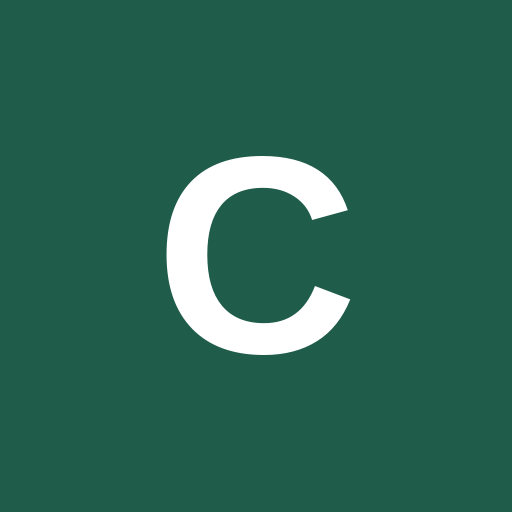
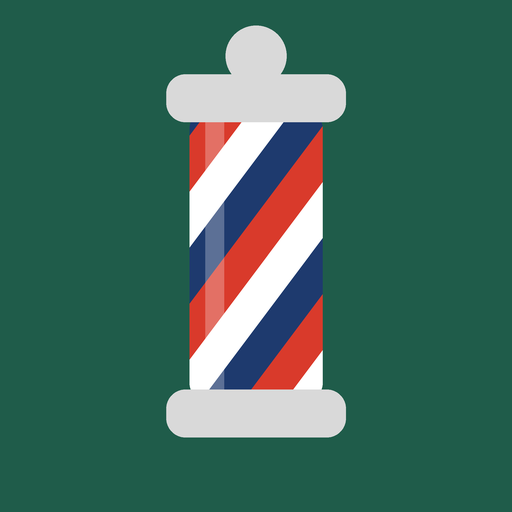
Add files via upload

Changed region(s): [[0.3125, 0.0312, 0.6875, 0.875]]

diff --git a/index.html b/index.html
@@ -21,7 +21,7 @@ html,body{margin:0;background:var(--bg);color:var(--ink);font-family:-apple-syst
 body{padding-bottom:calc(96px + env(safe-area-inset-bottom))}
 button,input,select{font:inherit;color:inherit}
 header{position:sticky;top:0;z-index:5;background:var(--bg);padding:calc(12px + env(safe-area-inset-top)) 16px 10px;display:flex;align-items:center;gap:12px;max-width:640px;margin:0 auto}
-.logo{width:40px;height:40px;border-radius:12px;background:var(--accent);color:var(--accent-ink);display:grid;place-items:center;font-weight:800;font-size:18px;flex:none}
+.logo{width:40px;height:40px;border-radius:12px;background:var(--accent);color:var(--accent-ink);display:grid;place-items:center;font-weight:800;font-size:18px;flex:none;object-fit:cover}
 h1{font-size:20px;margin:0;letter-spacing:-.01em;line-height:1.2}
 h2{font-size:18px;margin:0}
 h3{font-size:22px;margin:4px 0 16px}
@@ -130,7 +130,7 @@ nav .mic svg{width:28px;height:28px}
 </head>
 <body>
 <header>
-  <div class="logo" id="logo">C</div>
+  <img class="logo" id="logo" src="icon-192.png" alt="">
   <div><h1 id="shopName">Chairside</h1><div class="sub" id="todayLabel"></div></div>
 </header>
 <main id="view"></main>
@@ -235,7 +235,6 @@ const UI={tab:'today',date:today(),tillMode:'day',tillDate:today(),staffWeek:wee
 
 function render(){
   $('#shopName').textContent=S.shop;
-  $('#logo').textContent=(S.shop.trim()[0]||'C').toUpperCase();
   $('#todayLabel').textContent=new Date().toLocaleDateString('en-IE',{weekday:'long',day:'numeric',month:'long'})+(hasSync()?Sync.badge():'');
   const lock=hasSync()&&Sync.gate();
   document.body.classList.toggle('locked',!!lock);
@@ -416,7 +415,7 @@ function viewSettings(){
   ${hasSync()?Sync.card():''}${hasSync()?'':`<div class="card"><h2 style="margin-bottom:6px">Backup</h2><p class="sub" style="margin-top:0">${hasSync()&&Sync.signedIn()?'Your data is also backed up in the cloud. A backup file is an extra copy you keep yourself.':'Everything is stored on this phone only. Save a backup file now and then, and before switching phones.'}</p><div class="grid2" style="margin:0"><button class="btn ghost" data-act="export">Save backup</button><button class="btn ghost" data-act="import">Restore</button></div></div>`}
   <div class="card"><h2 style="margin-bottom:12px">Data</h2><button class="btn ghost danger full" data-act="wipe" style="margin:0">Erase everything</button></div><input type="file" id="importFile" accept="application/json,.json" hidden>
   <div class="card"><h2 style="margin-bottom:6px">Add to home screen</h2><p class="sub" style="margin:0">iPhone: open in Safari → Share → <b>Add to Home Screen</b>. Android: Chrome menu → <b>Add to Home screen</b>.</p></div>
-  <p class="foot">Chairside v1.7 · <a href="privacy.html" style="color:inherit">Privacy</a></p>`;}
+  <p class="foot">Chairside v1.8 · <a href="privacy.html" style="color:inherit">Privacy</a></p>`;}
 function doExport(){const blob=new Blob([JSON.stringify(S)],{type:'application/json'});const a=document.createElement('a');a.href=URL.createObjectURL(blob);a.download=`chairside-backup-${today()}.json`;document.body.appendChild(a);a.click();setTimeout(()=>{URL.revokeObjectURL(a.href);a.remove();},800);toast('Backup saved');}
 function doImport(input){const f=input.files[0];if(!f)return;const r=new FileReader();
   r.onload=()=>{try{const o=JSON.parse(r.result);if(!o||!Array.isArray(o.services)||!Array.isArray(o.bookings)||!Array.isArray(o.tx))throw 0;
@@ -635,7 +634,17 @@ const ACT={
   delStaff:(el,id)=>{if(!confirm('Remove this barber? Past records stay.'))return;S.staff=S.staff.filter(s=>s.id!==id);save();render();},
   export:doExport,import:()=>$('#importFile').click(),
   sample:()=>{if(hasSync()&&Sync.signedIn())return toast('Sign out first — sample data would mix with your real data');if(!confirm('Replace everything with sample data?'))return;S=sampleData();save();UI.date=today();render();},
-  wipe:()=>{if(!confirm(hasSync()&&Sync.signedIn()?'Erase all bookings, money and settings on EVERY phone signed in to this shop?':'Erase all bookings, money and settings on this phone?'))return;S=baseData();save();UI.date=today();render();toast('Fresh start');},
+  wipe:()=>{const all=hasSync()&&Sync.signedIn();
+    openSheet(`<h3 class="red">Erase everything?</h3>
+    <p>This deletes <b>all bookings, walk-ins, money in and out, staff and settings</b>${all?' on <b>every phone</b> signed in to this shop and in the cloud':' on this phone'}.</p>
+    <p class="red" style="font-weight:700">It can't be undone.</p>
+    <p class="sub">Want a copy first? <button class="linkbtn" data-act="export" style="padding:0">Download a copy</button></p>
+    <label>Type <b>ERASE</b> to confirm<input id="eraseWord" autocomplete="off" autocapitalize="characters" spellcheck="false"></label>
+    <button class="btn red full" id="eraseGo" data-act="wipeGo" disabled>Erase everything</button>
+    <button class="btn ghost full" data-act="closeSheet" style="margin-top:8px">Cancel</button>`);
+    $('#eraseWord').addEventListener('input',e=>{$('#eraseGo').disabled=e.target.value.trim().toUpperCase()!=='ERASE';});},
+  wipeGo:()=>{if($('#eraseWord').value.trim().toUpperCase()!=='ERASE')return;
+    const acct=S.acct;S=baseData();if(acct)S.acct=acct;save();closeSheet();UI.date=today();UI.tab='today';render();toast('Everything erased');},
   startOwn:()=>{if(!confirm('Clear the sample data and start with your own?'))return;S=baseData();save();UI.date=today();UI.tab='settings';render();toast('Set your shop name, prices and team');},
   voice:openVoice,mic:toggleMic,
   sendCmd:()=>{const i=$('#cmdText'),v=i&&i.value.trim();if(v){runCommand(v);i.value='';}},
@@ -664,6 +673,6 @@ setInterval(()=>{const T=today();
   if(UI.tab==='today'&&!$('#sheet').classList.contains('open')&&!document.activeElement.matches('input,select'))render();},60000);
 if('serviceWorker' in navigator&&location.protocol==='https:')navigator.serviceWorker.register('sw.js').catch(()=>{});
 </script>
-<script src="sync.js?v=1.7"></script>
+<script src="sync.js?v=1.8"></script>
 </body>
 </html>

diff --git a/sync.js b/sync.js
@@ -228,8 +228,8 @@ const Sync = (() => {
     return 'wait';
   }
   function loginView(mode) {
-    if (mode === 'wait') return `<div class="login"><div class="logo big">C</div><p class="sub">Loading…</p></div>`;
-    return `<div class="login"><div class="logo big">C</div><h1>Chairside</h1><p class="sub center" style="margin:4px 0 22px">Bookings, walk-ins, till and staff pay for your barbershop.</p>
+    if (mode === 'wait') return `<div class="login"><img class="logo big" src="icon-192.png" alt=""><p class="sub">Loading…</p></div>`;
+    return `<div class="login"><img class="logo big" src="icon-192.png" alt=""><h1>Chairside</h1><p class="sub center" style="margin:4px 0 22px">Bookings, walk-ins, till and staff pay for your barbershop.</p>
       <div class="card" style="width:100%">
       <label>Email<input id="c_email" type="email" autocomplete="username" inputmode="email" autocapitalize="off"></label>
       <label>Password<input id="c_pass" type="password" autocomplete="current-password" minlength="8"></label>

diff --git a/privacy.html b/privacy.html
@@ -28,7 +28,7 @@ a{color:var(--accent);font-weight:600}
 <body>
 <main>
 <a class="back" href="./">‹ Back to Chairside</a>
-<div class="top"><div class="logo">C</div><div><h1>Privacy</h1><div class="muted">Last updated: 13 October 2026</div></div></div>
+<div class="top"><img class="logo" src="icon-192.png" alt=""><div><h1>Privacy</h1><div class="muted">Last updated: 13 October 2026</div></div></div>
 
 <div class="card">
 <p><strong>In short:</strong> Chairside stores only what a barbershop needs to run its day. Each shop's data is private to that shop, kept in the EU, never sold, and never used for ads. There are no ads, trackers or analytics in the app.</p>

diff --git a/sw.js b/sw.js
@@ -1,7 +1,7 @@
 // Offline support: always ask the server for the newest files first (skipping the browser's
 // own short-term cache, so an update never shows up half old, half new), and fall back to
 // the saved copy when there's no signal.
-const CACHE = 'chairside-v1.7';
+const CACHE = 'chairside-v1.8';
 const FILES = ['./', './index.html', './manifest.json', './sync.js', './privacy.html', './supabase.js', './icon-180.png', './icon-192.png', './icon-512.png'];
 
 self.addEventListener('install', e => {
